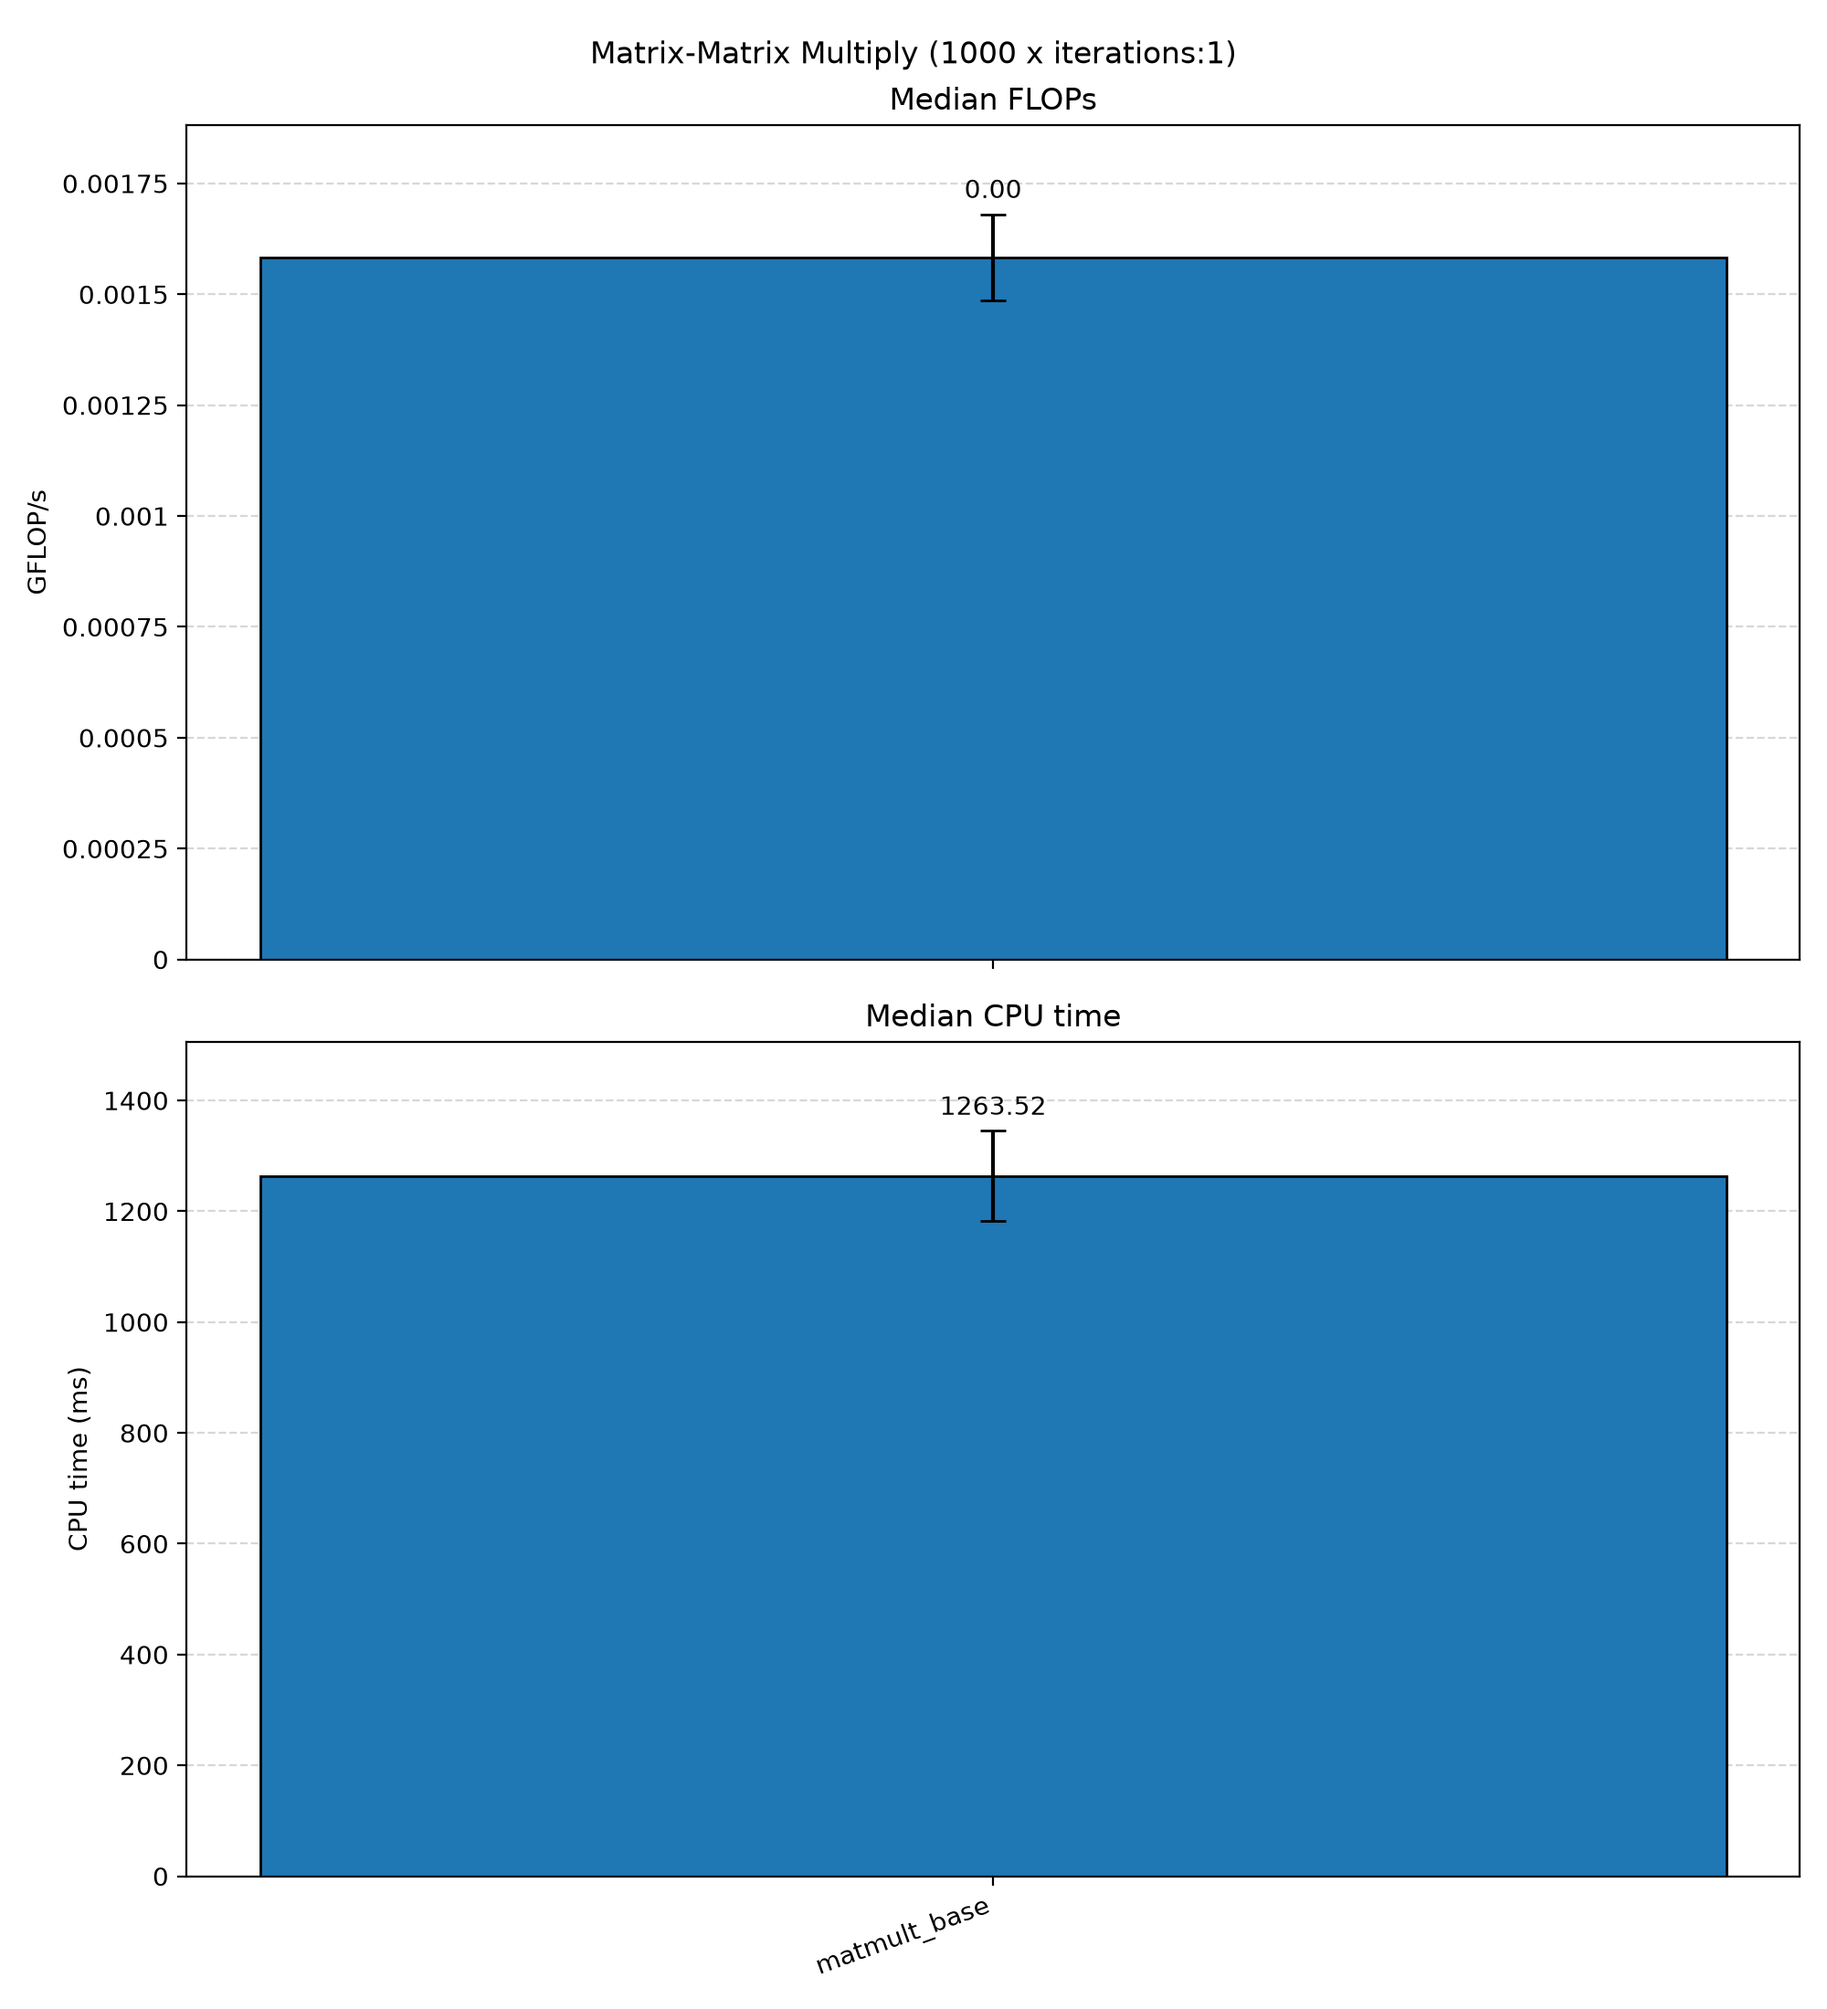
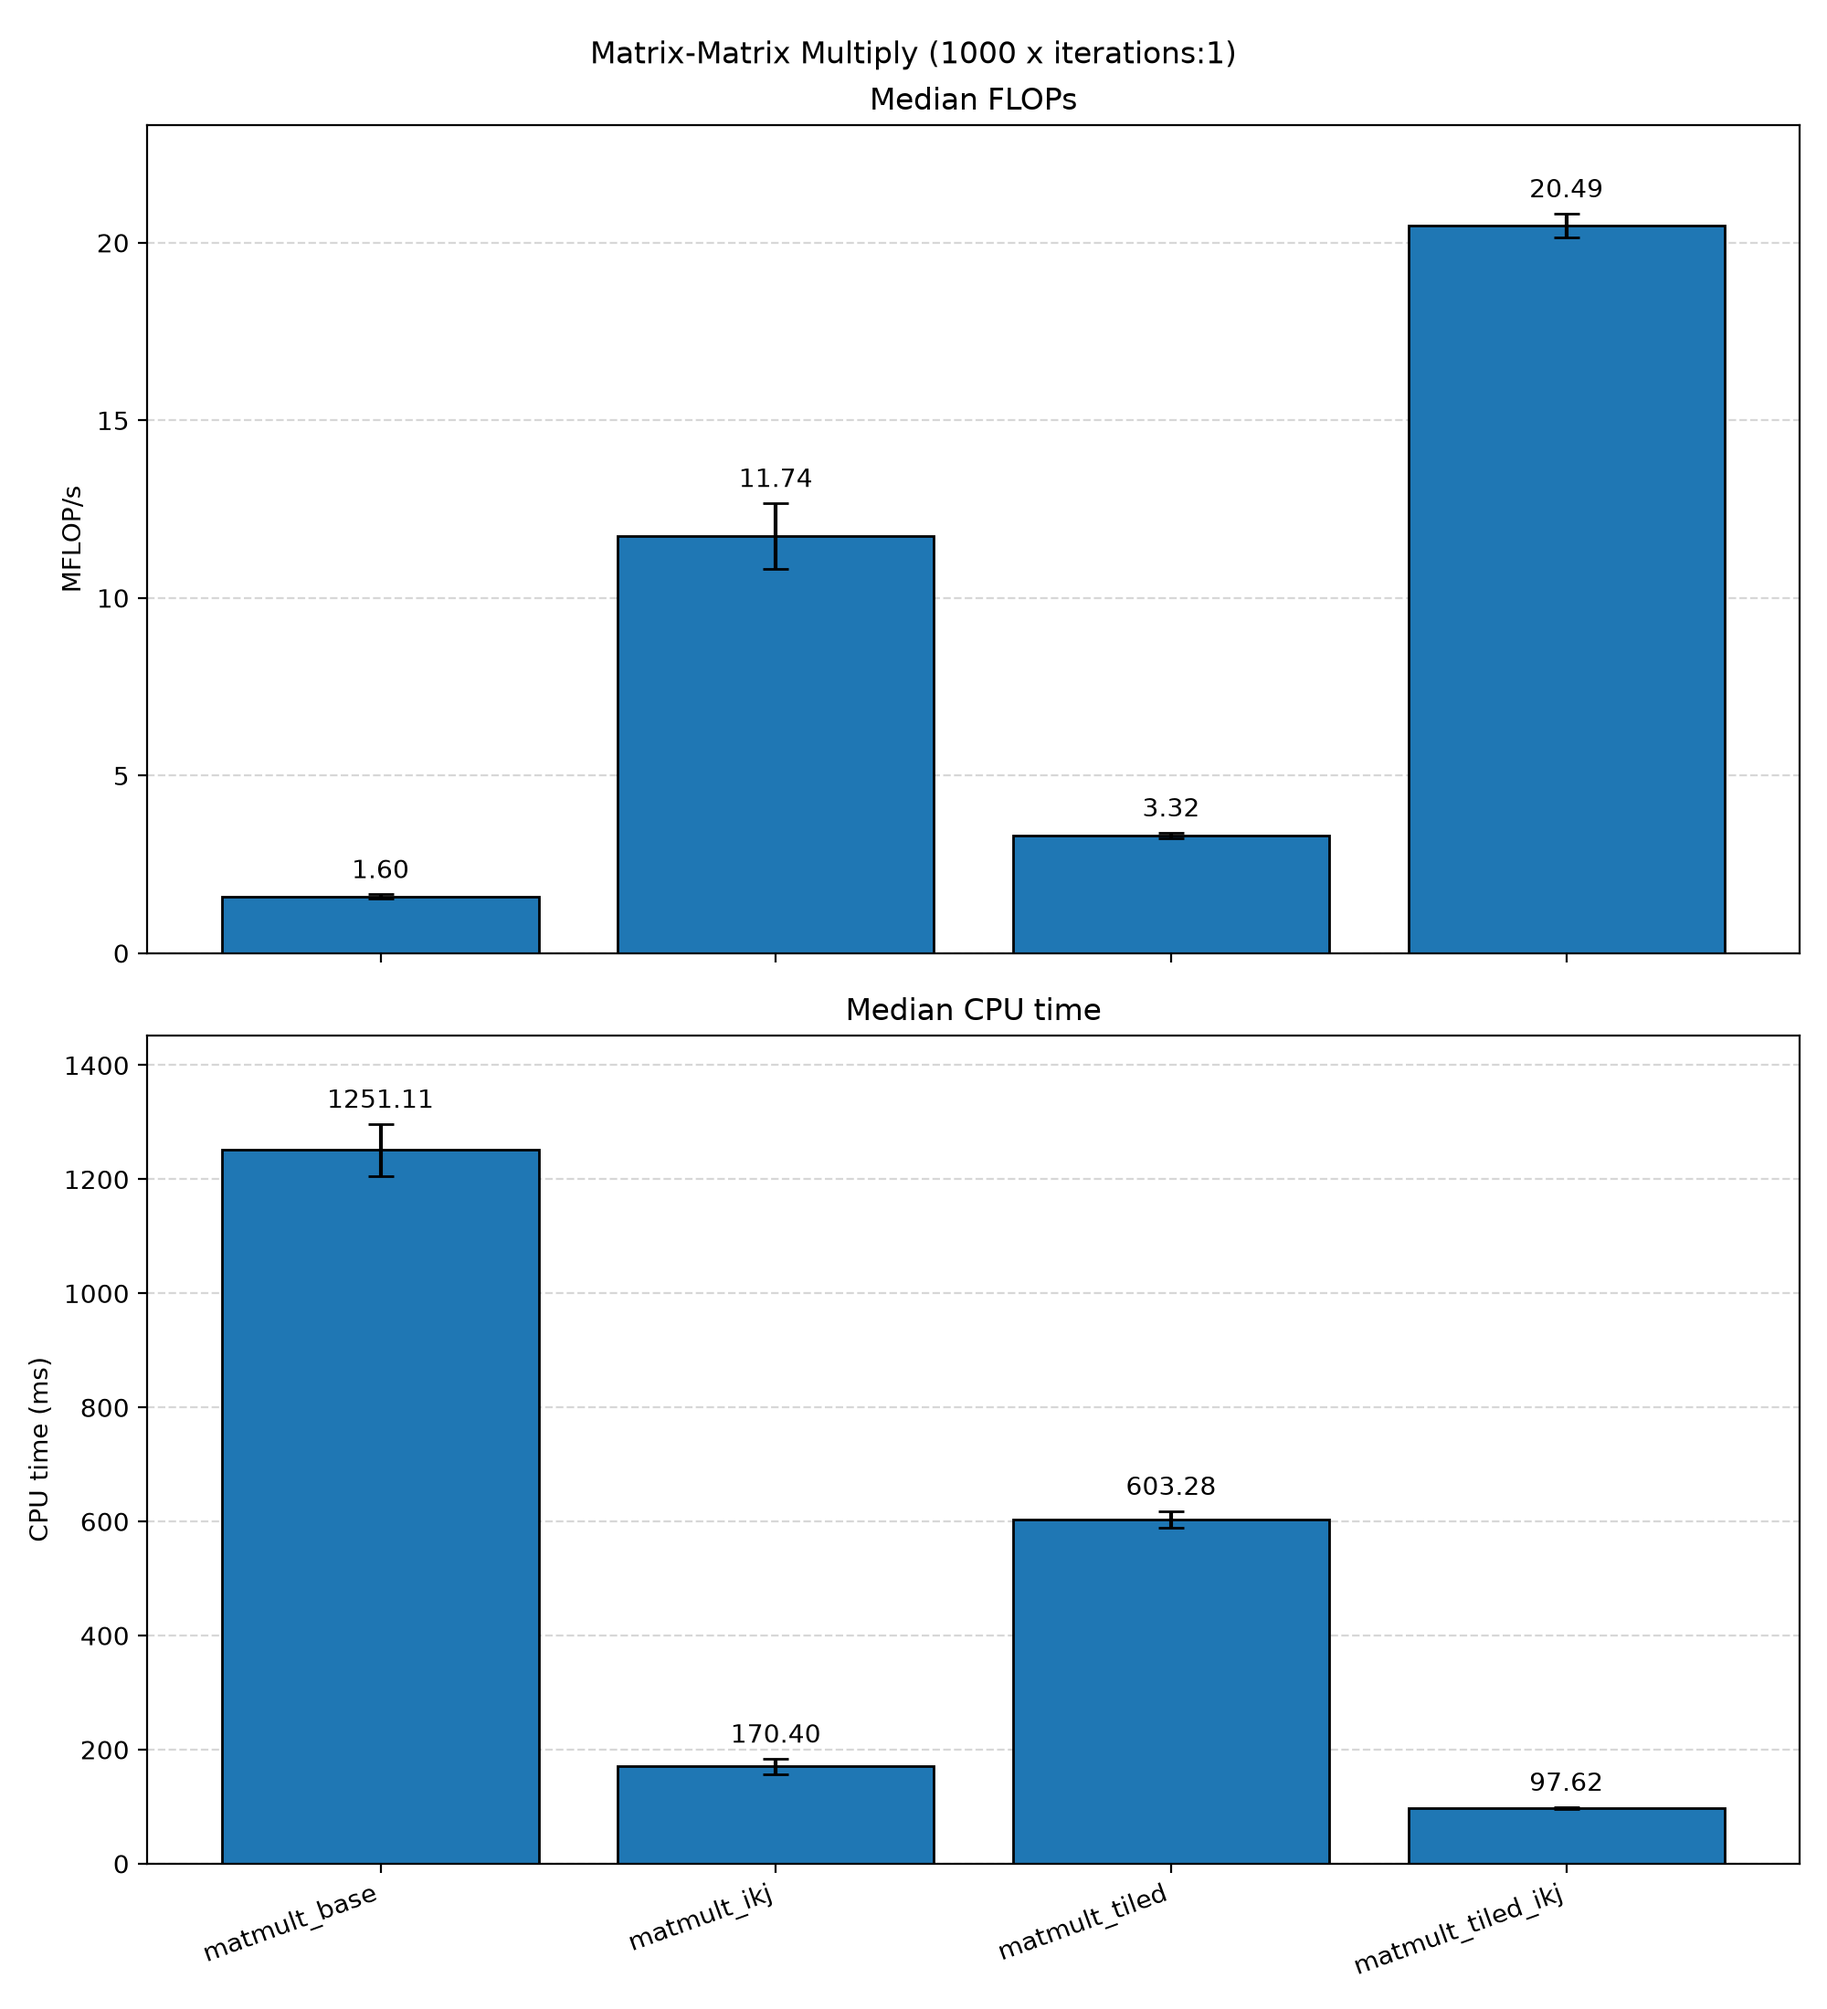
Tiled + ikj

diff --git a/src/matrix_mult.cpp b/src/matrix_mult.cpp
@@ -10,3 +10,38 @@ void matmult_base(const float* A, const float* B, float* C, int n)
         }
     }
 }
+
+void matmult_ikj(const float* A, const float* B, float* C, int n)
+{
+    for (int i = 0; i < n; i++) {
+        for (int k = 0; k < n; k++) {
+            for (int j = 0; j < n; j++) {
+                C[i*n + j] += A[i*n + k] * B[k*n + j];
+            }
+        }
+    }
+}
+
+constexpr int s = 50; // should divide n, we assume it can
+
+void matmult_tiled(const float* A, const float* B, float* C, int n)
+{
+    for (int oi = 0; oi < n; oi += s)
+        for (int oj = 0; oj < n; oj += s)
+            for (int ok = 0; ok < n; ok += s)
+                for (int i = oi; i < oi+s; i++)
+                    for (int j = oj; j < oj+s; j++)
+                        for (int k = ok; k < ok+s; k++)
+                            C[i*n + j] += A[i*n + k] * B[k*n + j];
+}
+
+void matmult_tiled_ikj(const float* A, const float* B, float* C, int n)
+{
+    for (int oi = 0; oi < n; oi += s)
+        for (int ok = 0; ok < n; ok += s)
+            for (int oj = 0; oj < n; oj += s)
+                for (int i = oi; i < oi+s; i++)
+                    for (int k = ok; k < ok+s; k++)
+                        for (int j = oj; j < oj+s; j++)
+                            C[i*n + j] += A[i*n + k] * B[k*n + j];
+}

diff --git a/mat_mult_driver.cpp b/mat_mult_driver.cpp
@@ -44,6 +44,9 @@ void test_matmult(
     BENCHMARK(BM_##func##_)->Args({N})->Iterations(1)->Repetitions(RUNS);
 
 DEFINE_BENCHMARK(matmult_base)
+DEFINE_BENCHMARK(matmult_ikj)
+DEFINE_BENCHMARK(matmult_tiled)
+DEFINE_BENCHMARK(matmult_tiled_ikj)
 
 int main(int argc, char** argv) { 
     char arg0_default[] = "benchmark"; 
@@ -64,6 +67,9 @@ int main(int argc, char** argv) {
     matmult_base(A.data(), B.data(), C.data(), N);
 
     test_matmult("base", matmult_base, A, B, N, C);
+    test_matmult("ikj", matmult_ikj, A, B, N, C);
+    test_matmult("tiled", matmult_tiled, A, B, N, C);
+    test_matmult("tiled ikj", matmult_tiled_ikj, A, B, N, C);
 
     ::benchmark::Initialize(&argc, argv); 
     if (::benchmark::ReportUnrecognizedArguments(argc, argv)) 

diff --git a/include/matrix_mult.h b/include/matrix_mult.h
@@ -2,6 +2,9 @@
 #define MATRIX_MULT_H
 
 void matmult_base(const float* A, const float* B, float* C, int n);
+void matmult_ikj(const float* A, const float* B, float* C, int n);
+void matmult_tiled(const float* A, const float* B, float* C, int n);
+void matmult_tiled_ikj(const float* A, const float* B, float* C, int n);
 
 #endif
 

diff --git a/script/plot_matmult.py b/script/plot_matmult.py
@@ -26,7 +26,7 @@ with open(JSON_PATH) as f:
 			stds[name] = b
 
 metrics = [
-	("FLOPs", 1e9, "Median FLOPs", "GFLOP/s"),
+	("FLOPs", 1e6, "Median FLOPs", "MFLOP/s"),
 	("cpu_time", 1e6, "Median CPU time", "CPU time (ms)"),
 ]
 
